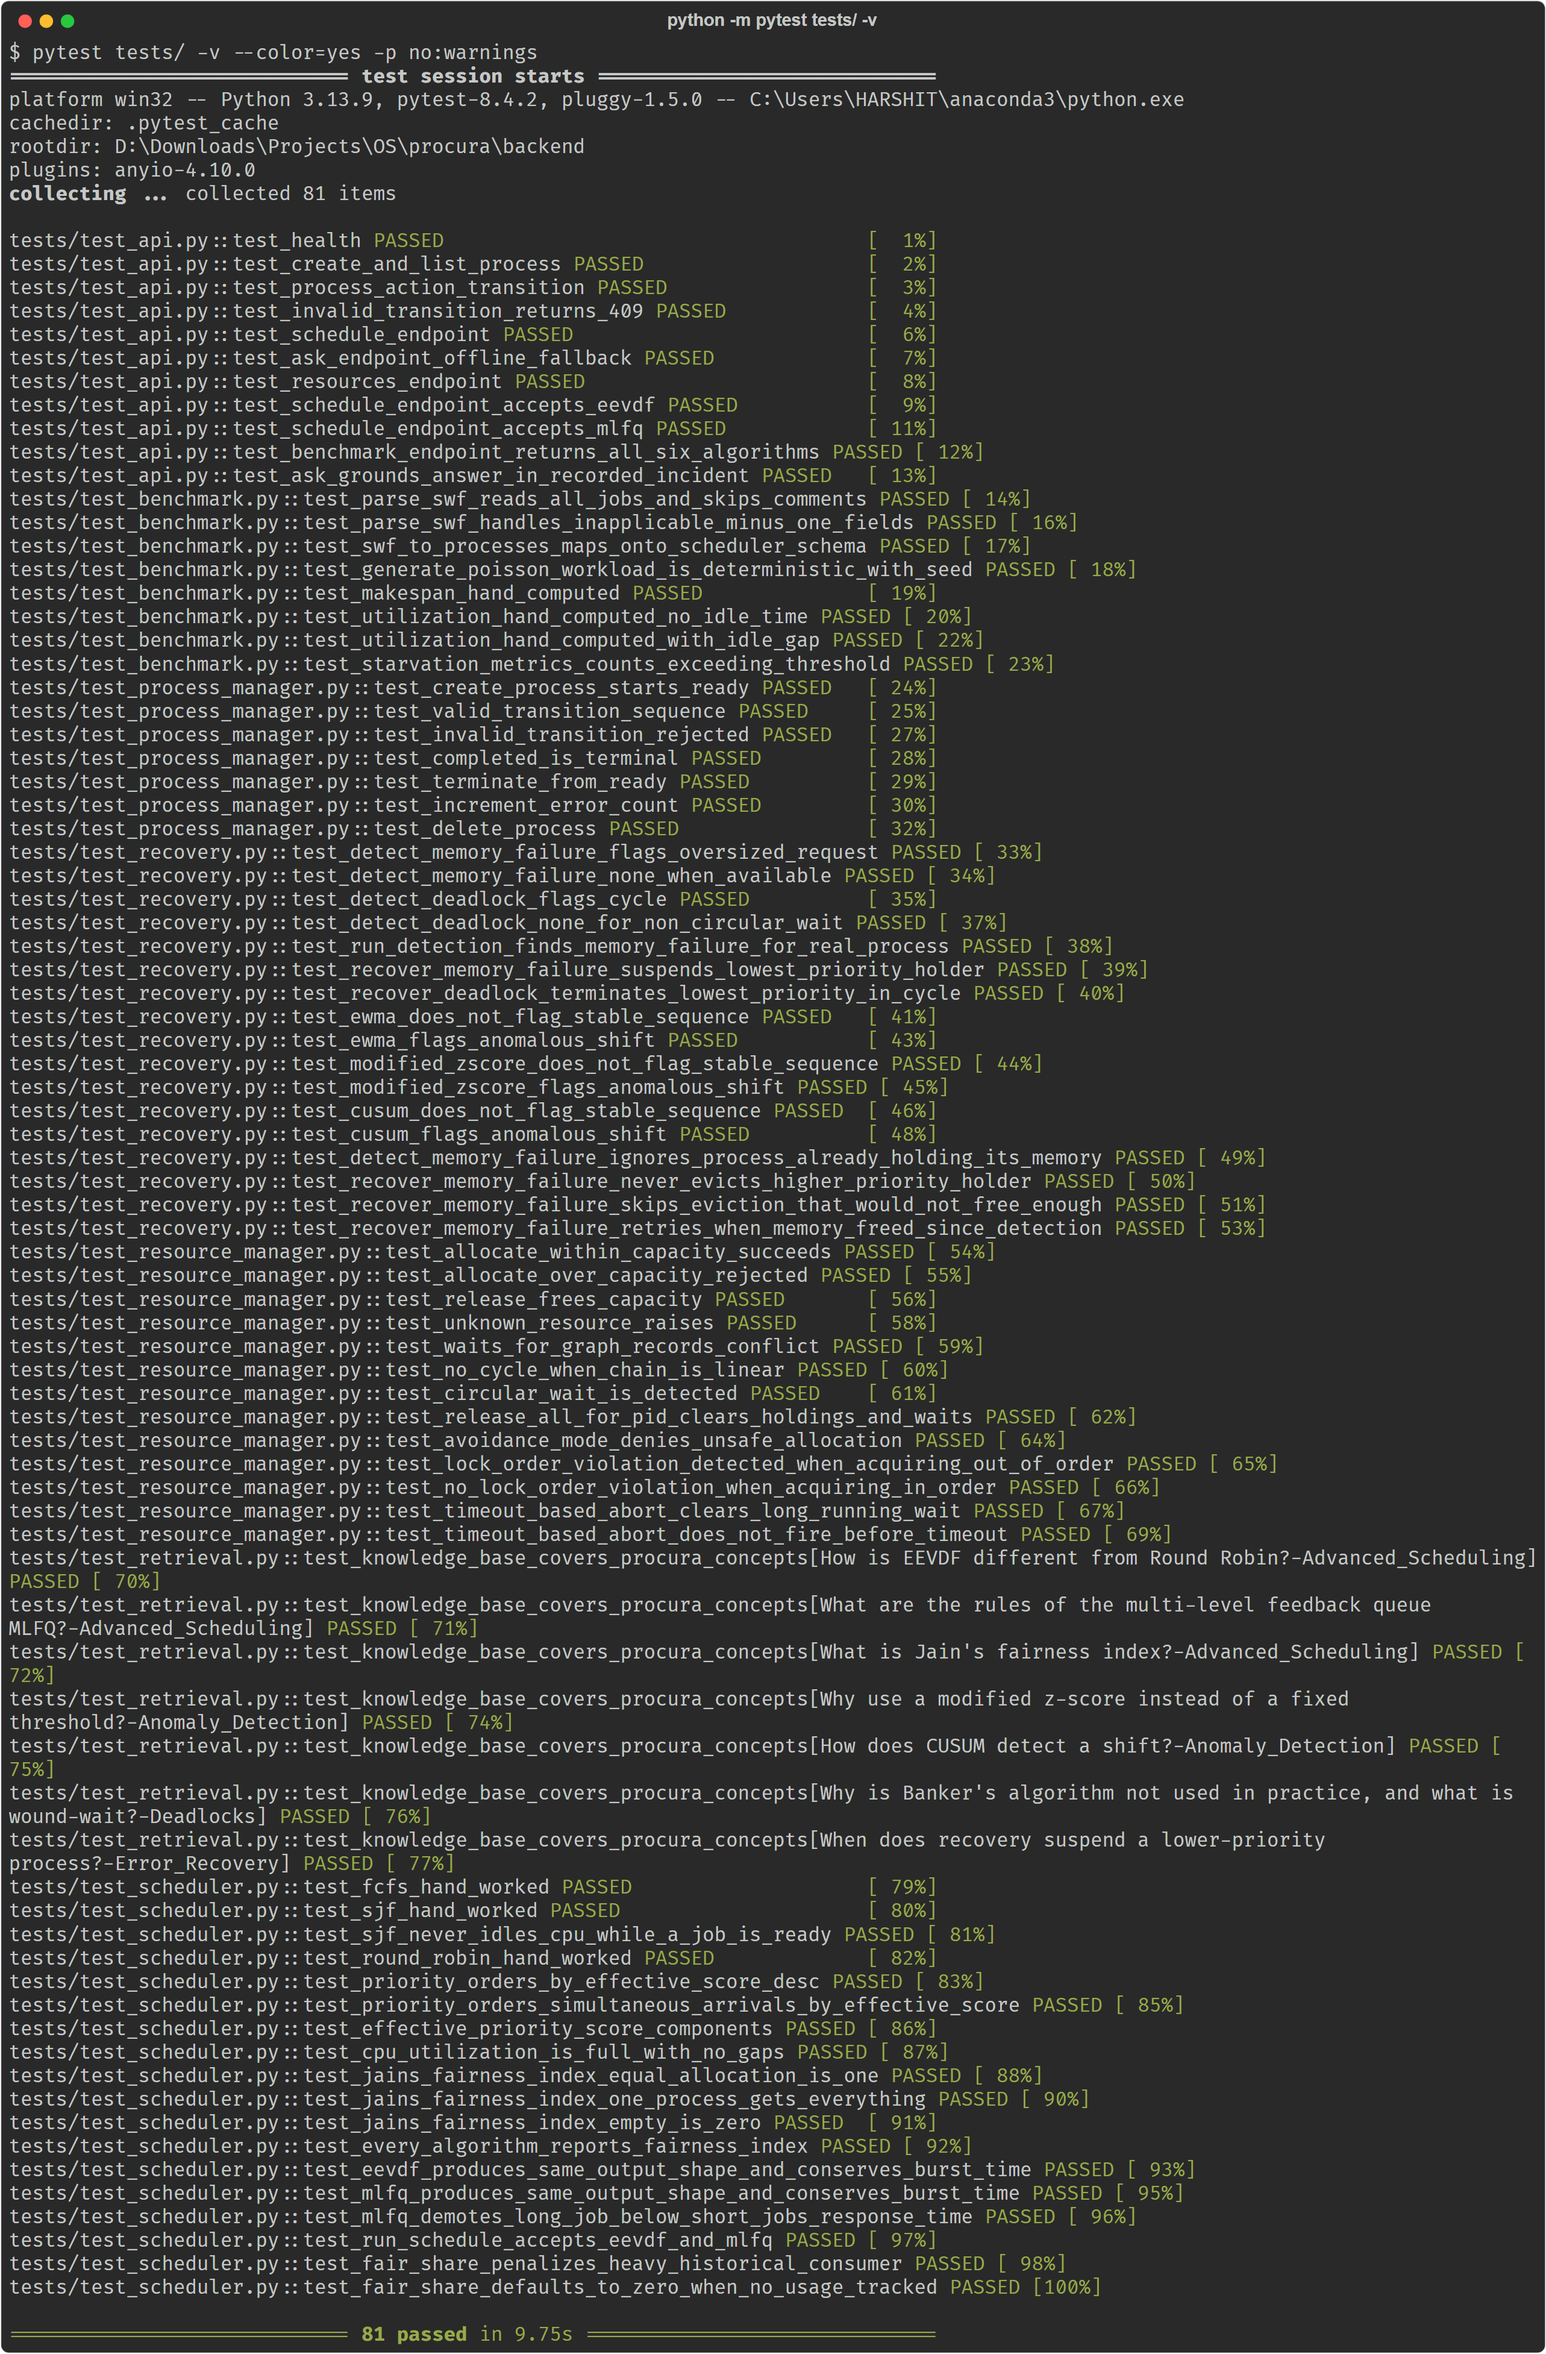
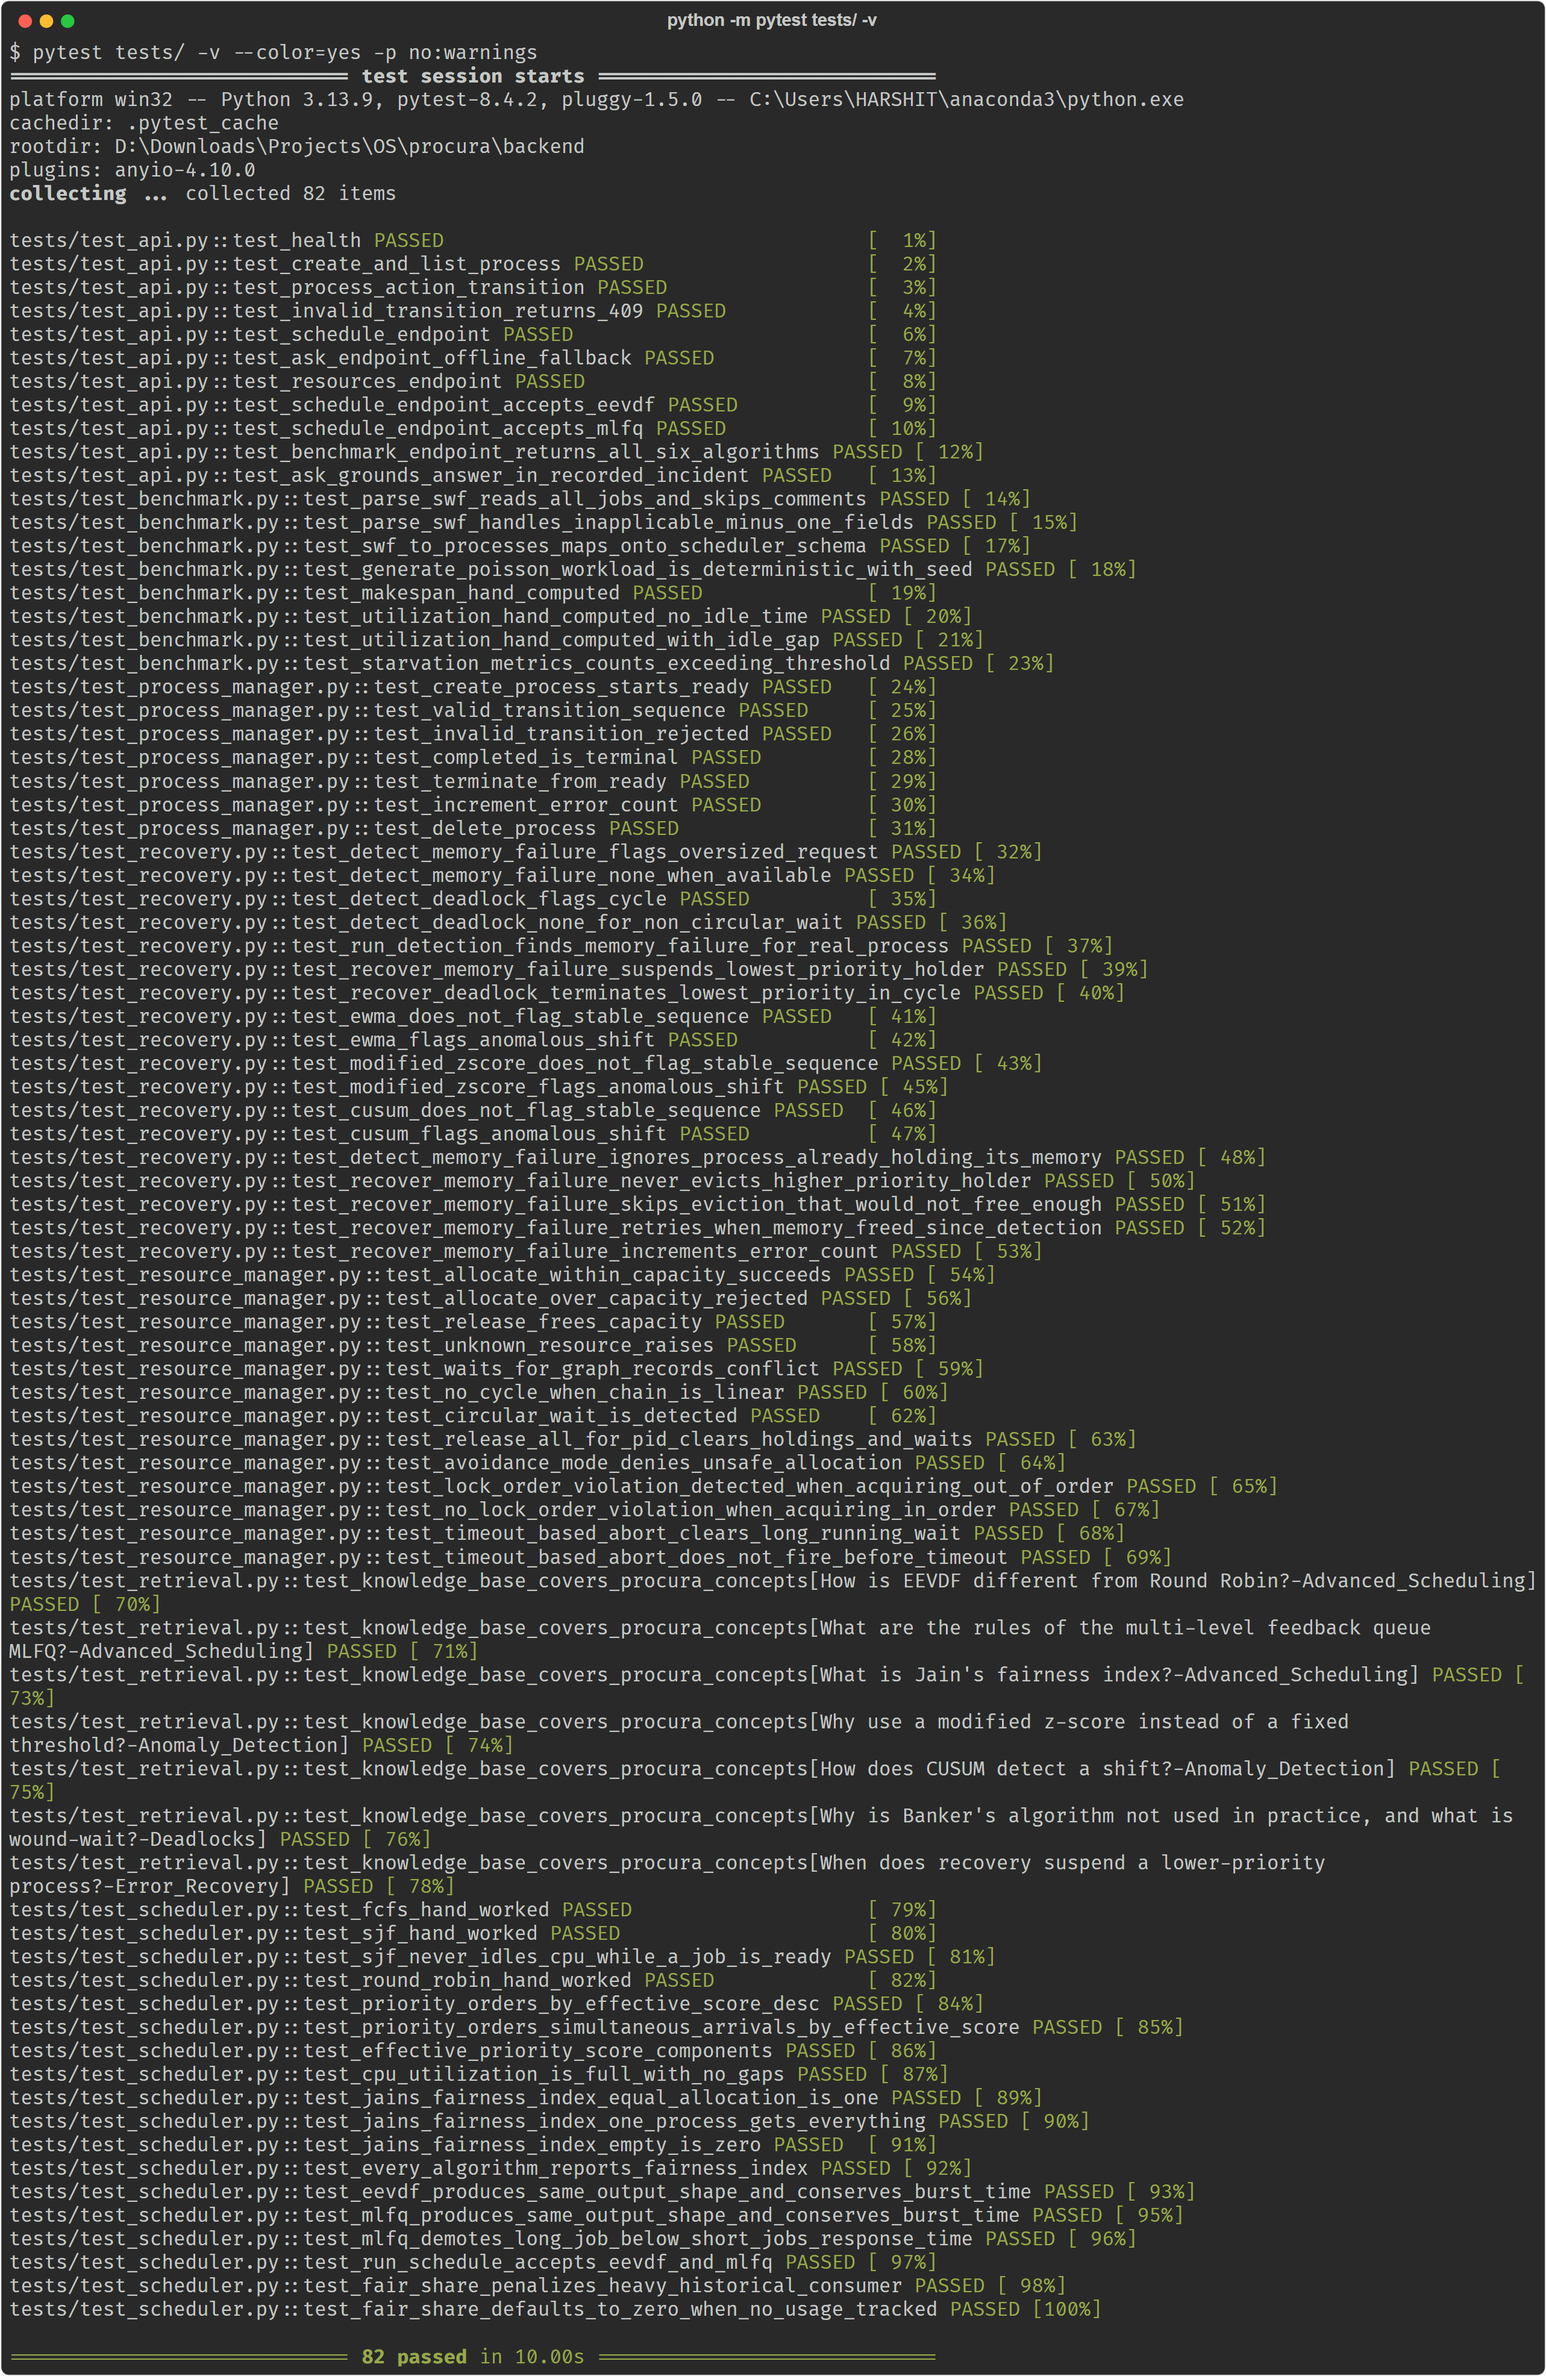
Count memory failures in error_count; fix procura_top memory label
Memory-allocation failures never incremented a process's error_count
(only timeout and crash recovery did), so the ERR column stayed 0 after
failures. Also format resource amounts compactly in procura_top.
Screenshots recaptured; 82 tests passing.

diff --git a/backend/cli/procura_top.py b/backend/cli/procura_top.py
@@ -84,7 +84,7 @@ def build_resource_panel(resources: dict) -> Panel:
         bar_color = "green" if pct < 60 else ("yellow" if pct < 85 else "red")
         bar = ProgressBar(total=100, completed=min(pct, 100), width=30, complete_style=bar_color)
         label = Text(f"{name.upper():10}", style="bold")
-        console_line = Group(label, bar, Text(f" {pct:5.1f}%  ({stats.get('allocated', 0)}/{stats.get('capacity', 0)})"))
+        console_line = Group(label, bar, Text(f" {pct:5.1f}%  ({stats.get('allocated', 0):g}/{stats.get('capacity', 0):g})"))
         lines.append(console_line)
 
     waits = resources.get("waiting_for_graph", {}) if resources else {}

diff --git a/backend/tests/test_recovery.py b/backend/tests/test_recovery.py
@@ -170,3 +170,13 @@ def test_recover_memory_failure_retries_when_memory_freed_since_detection():
 
     assert result["action_type"] == "retry"
     assert rm.holders["memory"].get(proc["pid"]) == 256
+
+
+def test_recover_memory_failure_increments_error_count():
+    rm = ResourceManager()
+    rm.allocate(999, "memory", 2000)
+    proc = process_manager.create_process(name="Counts its failures", burst_time=5, memory_requirement=500)
+
+    recover_memory_failure({"pid": proc["pid"]}, rm)
+
+    assert process_manager.get_process(proc["pid"])["error_count"] == 1

diff --git a/backend/recovery/recovery.py b/backend/recovery/recovery.py
@@ -40,6 +40,10 @@ def _lowest_priority_pid(pids: list[int], exclude: Optional[int] = None) -> Opti
 
 def recover_memory_failure(finding: dict[str, Any], resource_mgr: ResourceManager) -> dict[str, Any]:
     failing_pid = finding["pid"]
+    try:
+        process_manager.increment_error_count(failing_pid)
+    except Exception:
+        pass
 
     # Findings are snapshotted before any recovery runs, so an earlier recovery
     # in the same pass may already have freed enough memory: retry first.
